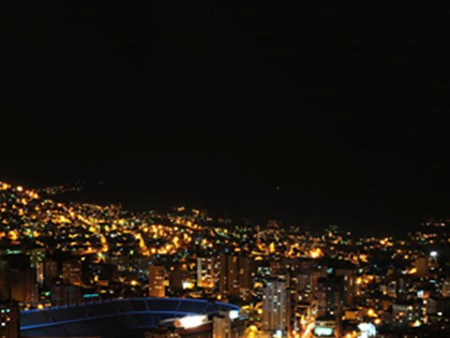
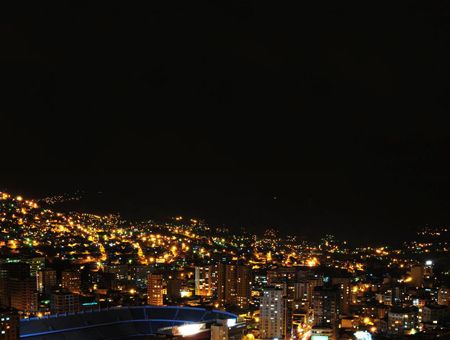
ultimo

Changed region(s): [[0.0, 0.5325, 1.0, 1.0], [0.9956, 0.9763, 1.0, 1.0]]

diff --git a/www/index.html b/www/index.html
@@ -11,7 +11,7 @@
 			playAudio2();
 		}
 		function vibrate() {
-			navigator.notification.vibrate(1000);
+			navigator.notification.vibrate(500);
 		}
 		var my_media = null,my_media2 = null;
 		function playAudio2() {
@@ -31,7 +31,7 @@
 	</script>
     <script type="text/javascript" src="js/jquery.js"></script>
     <script type="text/javascript" src="js/fireworks.js"></script>
-    <link type="text/css" href="css/fireworks.css" rel="stylesheet">
+    <link type="text/css" href="css/fireworks.css" rel="stylesheet" />
 </head>
 <body>
     <canvas id="cv" width="400" height="240" style="position:absolute;float:left;"></canvas>

diff --git a/www/css/fireworks.css b/www/css/fireworks.css
@@ -3,9 +3,8 @@
 	src: url('Codystar-Regular.ttf');
 }
 body {
-    background: #080705;
     font-size:62.5%;
-	background:url(../images/lapaz2.jpg) repeat-x;
+	background-image:url(../images/lapaz.jpg) repeat-x;
 }
 /*html, body { overflow: hidden; }*/
 #botones{
